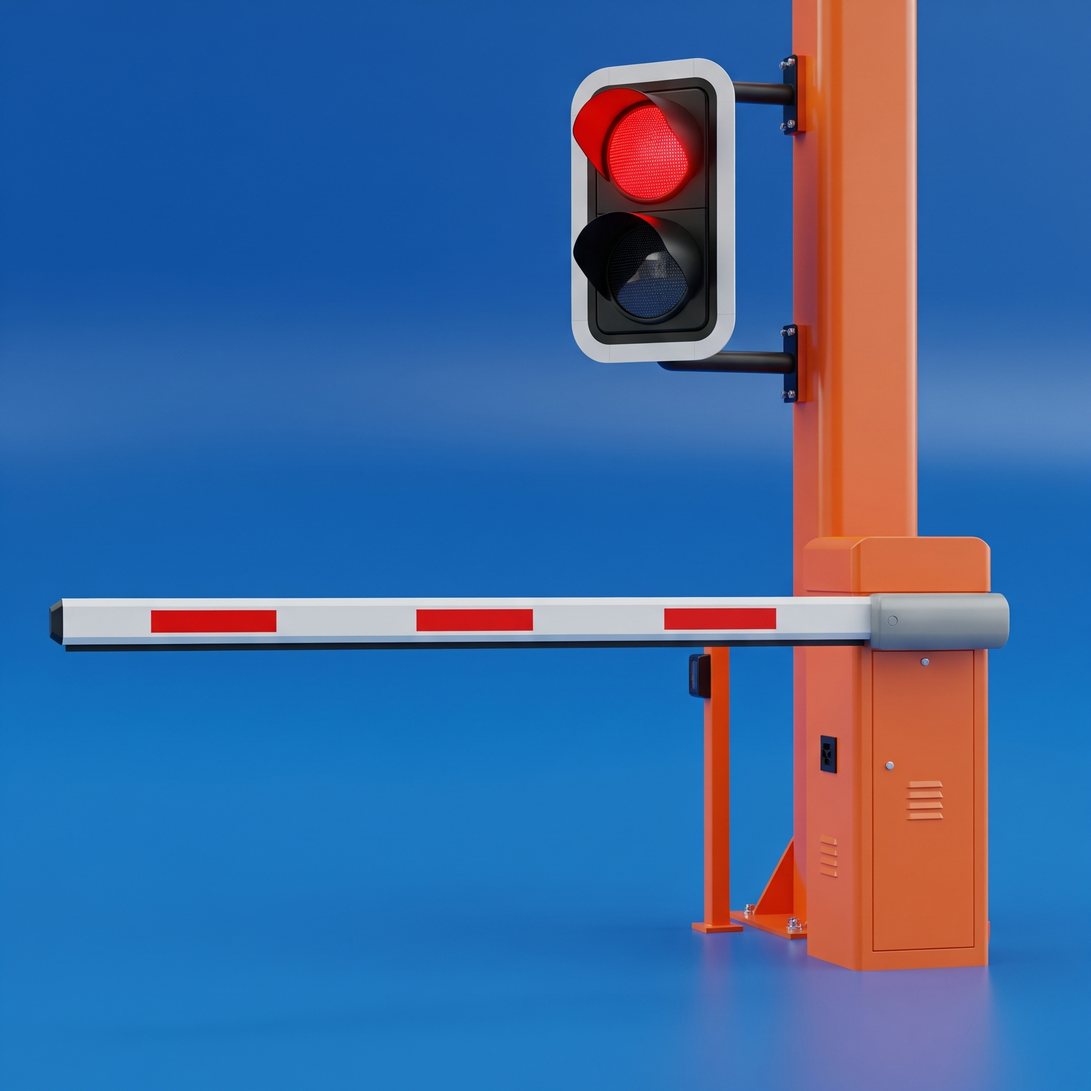
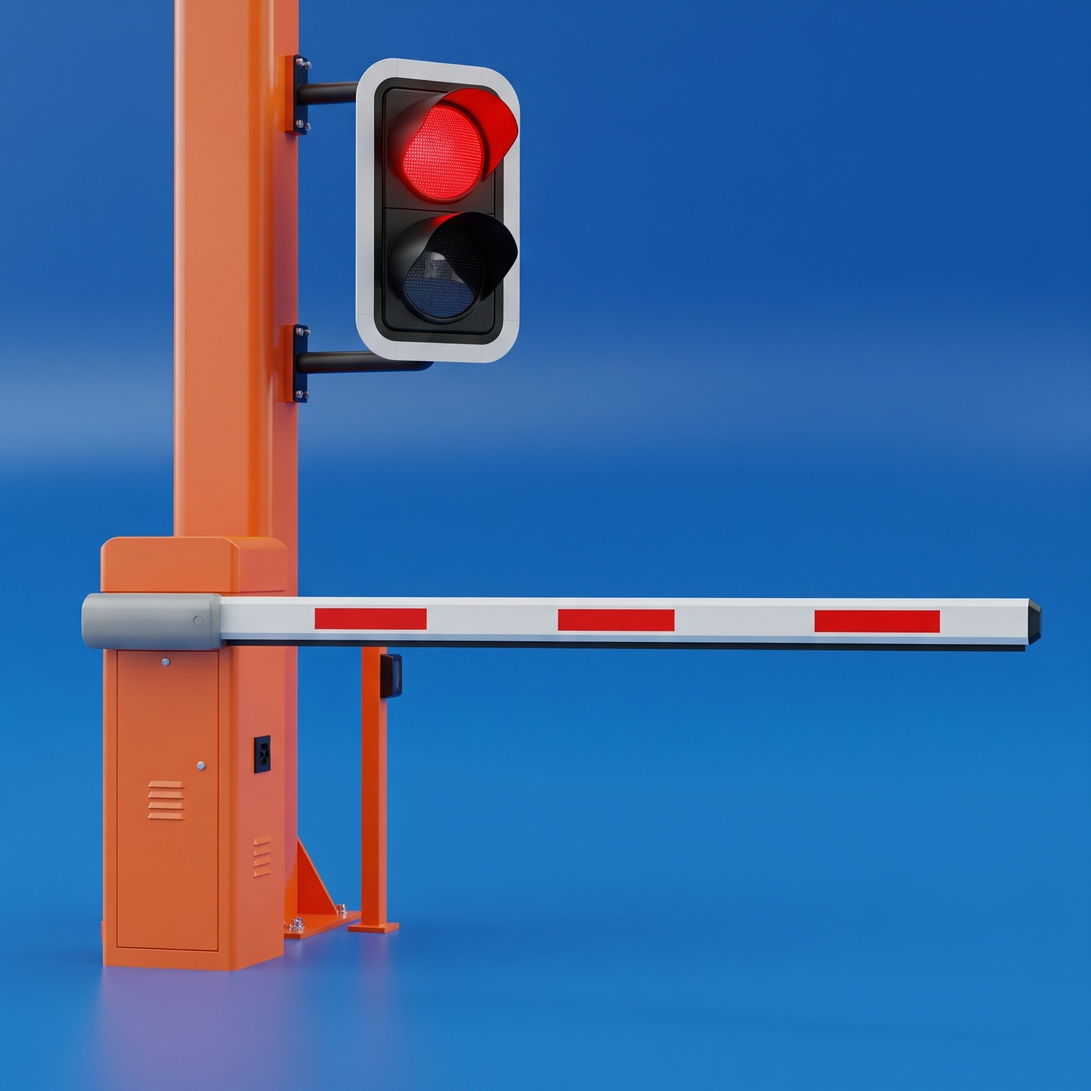
save

diff --git a/style.css b/style.css
@@ -30,7 +30,8 @@ body {
 
 .outButtonContainer {
   flex: 1;
-  display: grid;
+  display: flex;
+  flex-direction: column;
   gap: 1rem;
   padding: 1rem;
   border: 0.2rem solid rgba(255, 255, 255, 0.05);
@@ -65,4 +66,9 @@ body {
 
 .buttonContainer img {
   height: 20vw;
+  border-radius: 3vw;
+}
+
+#uscitaImg {
+  transform: scaleX(-1);
 }
